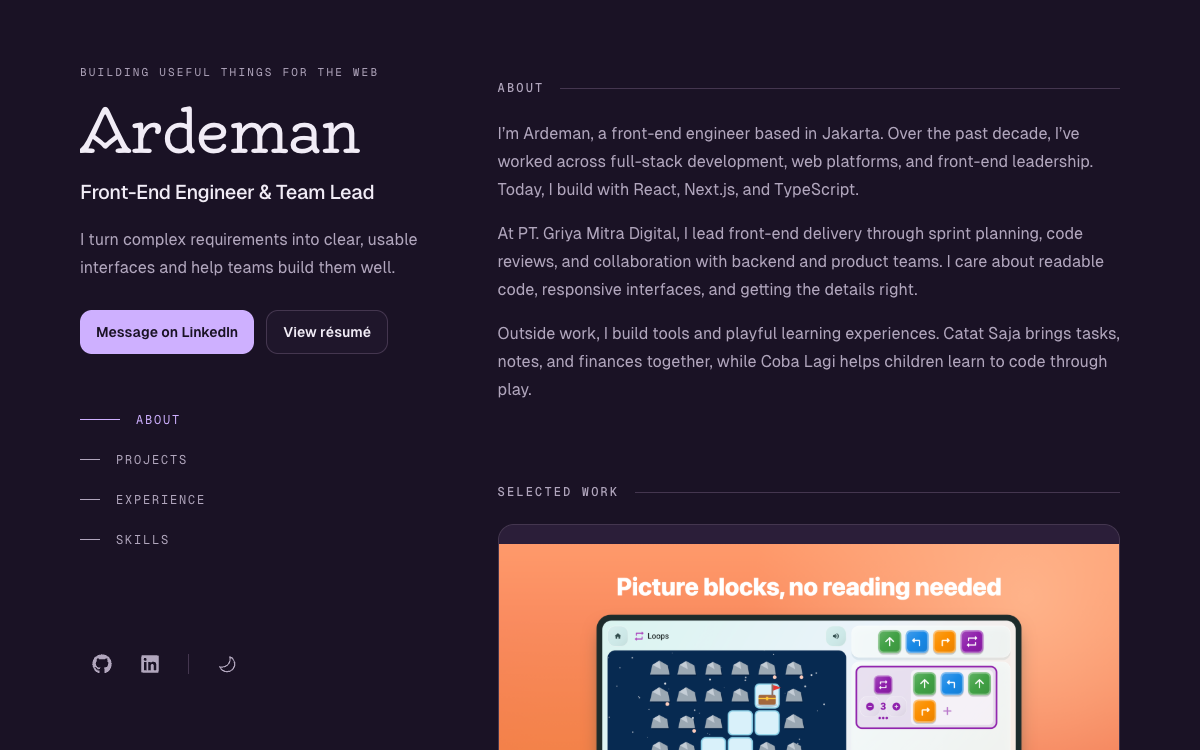
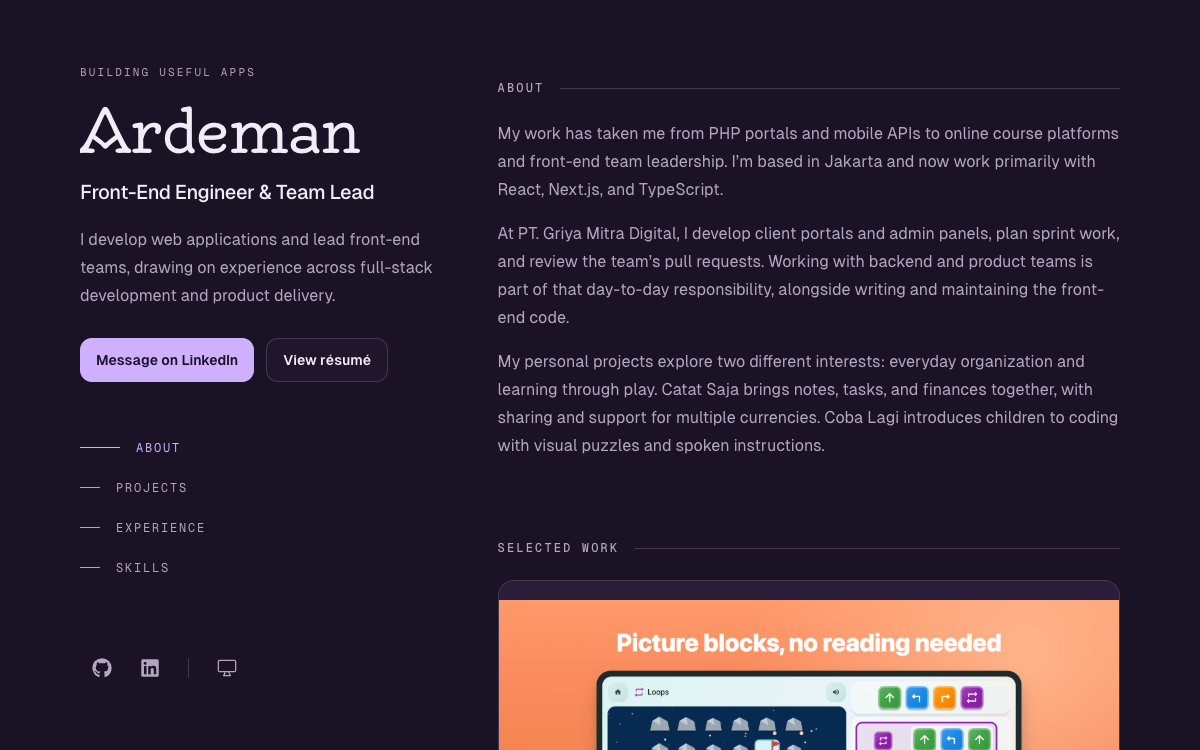
fix(content): simplify tagline and refresh project previews

diff --git a/src/components/sections/header/index.tsx b/src/components/sections/header/index.tsx
@@ -75,7 +75,7 @@ export const Header = ({ setActiveSection, activeSection }: TProps) => {
     <header className="lg:sticky lg:top-0 lg:flex lg:h-dvh lg:w-[34%] lg:shrink-0 lg:flex-col lg:justify-between lg:gap-8 lg:overflow-y-auto lg:py-16 xl:w-[36%] xl:py-20">
       <div>
         <p className="mb-5 font-mono text-[11px] tracking-[0.2em] text-muted uppercase">
-          Building useful things for the web
+          Building useful apps
         </p>
         <h1 className="oldenburg-regular text-5xl tracking-tight text-ink sm:text-6xl">
           <Link href="/">Ardeman</Link>

diff --git a/src/data/featured-projects.ts b/src/data/featured-projects.ts
@@ -25,7 +25,7 @@ export const featuredProjects = [
     technologies: ['React Router', 'TypeScript', 'Firebase'],
     image: '/images/projects/catatsaja.png',
     darkImage: '/images/projects/catatsaja-dark.png',
-    alt: 'Catat Saja landing page showing a weekly plan note and a shared grocery checklist',
+    alt: 'Catat Saja landing page showing a weekly plan note, a shared grocery checklist, and a trip finance book',
     problem:
       'Keep everyday notes, tasks, and income and expenses together without switching between apps.',
     contribution:

diff --git a/src/constants/metadata.ts b/src/constants/metadata.ts
@@ -19,7 +19,7 @@ export const metadata: Metadata = {
         url: '/images/social-preview.png',
         width: 1200,
         height: 630,
-        alt: 'Ardeman — Front-End Engineer & Team Lead. Building useful things for the web.',
+        alt: 'Ardeman — Front-End Engineer & Team Lead. Building useful apps.',
       },
     ],
   },
